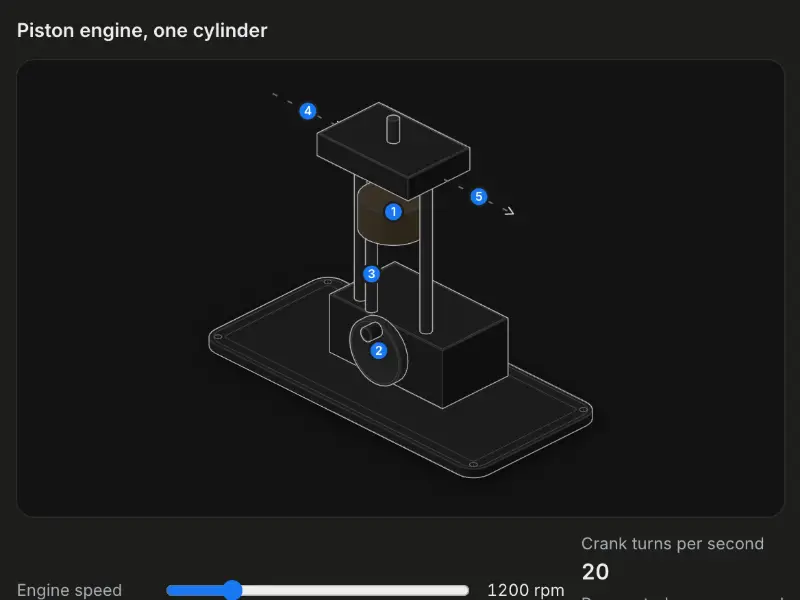
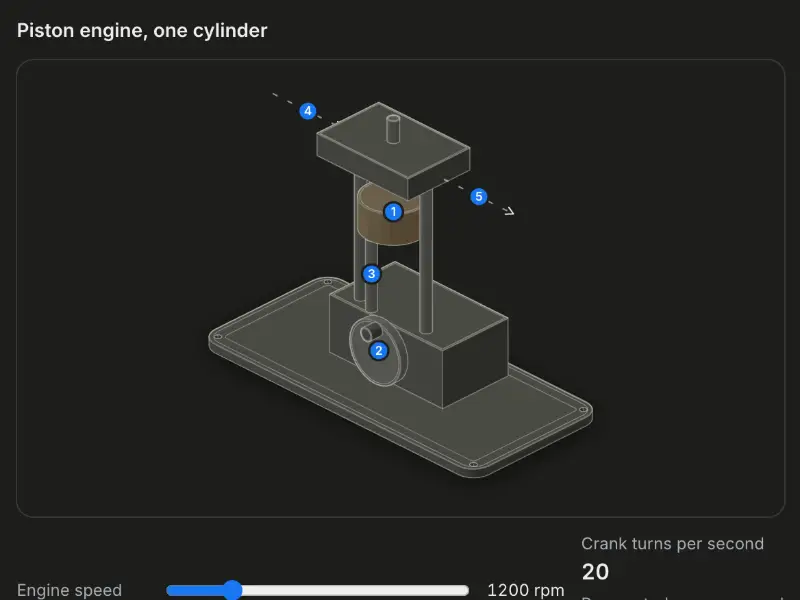
fix(iso): lift the dark soft ramp so parts separate from the card

Changed region(s): [[0.25, 0.15, 0.75, 0.81]]

diff --git a/packages/svelte/src/lib/widgets/composite/IsoScene.svelte b/packages/svelte/src/lib/widgets/composite/IsoScene.svelte
@@ -473,23 +473,31 @@
 		--a-amber: #d9930d;
 	}
 	:global(.dark) .iso-scene[data-look='soft'] {
-		--a-paper: #131313;
-		--a-top: #1c1c1c;
-		--a-s0: #0f0f0f;
-		--a-s1: #121212;
-		--a-s2: #151515;
-		--a-s3: #181818;
-		--a-hi: #d4d4d4;
-		--a-mid: #6a6a6a;
-		--a-lo: #3e3e3e;
-		--a-faint: #2a2a2a;
-		--a-rim: #2e2e2e;
-		--a-halo: #050505;
-		--a-halo-o: 0.9;
+		/* Lifted from Anatomy's near-black ramp so faces separate on a dark card. */
+		--a-paper: #1d1d1a;
+		--a-face: #2c2c28;
+		--a-top: #4a4a44;
+		--a-s0: #2c2c28;
+		--a-s1: #33332f;
+		--a-s2: #3a3a35;
+		--a-s3: #42423d;
+		--a-hi: #ecece6;
+		--a-mid: rgb(236 236 230 / 0.55);
+		--a-lo: rgb(236 236 230 / 0.35);
+		--a-faint: rgb(236 236 230 / 0.14);
+		--a-rim: #77776e;
+		--a-halo: #000;
+		--a-halo-o: 0.55;
 		--a-red: #ff6b6b;
 		--a-green: #6be0a0;
 		--a-blue: #6b9bff;
 		--a-amber: #f0b24a;
+	}
+	:global(.dark) [data-look='soft'] path[data-cls='edge'] {
+		opacity: 0.4;
+	}
+	:global(.dark) [data-look='soft'] g[data-role]:not([data-role='neutral']) {
+		--k: 22%;
 	}
 	[data-look='soft'] .iso-svg {
 		background: var(--a-paper);
@@ -499,7 +507,7 @@
 	[data-look='soft'] g[data-role] {
 		--tint: var(--a-s2);
 		--k: 0%;
-		--tf: color-mix(in oklab, var(--a-paper), var(--tint) var(--k));
+		--tf: color-mix(in oklab, var(--a-face, var(--a-paper)), var(--tint) var(--k));
 		--t0: color-mix(in oklab, var(--a-s0), var(--tint) var(--k));
 		--t1: color-mix(in oklab, var(--a-s1), var(--tint) var(--k));
 		--t2: color-mix(in oklab, var(--a-s2), var(--tint) var(--k));
